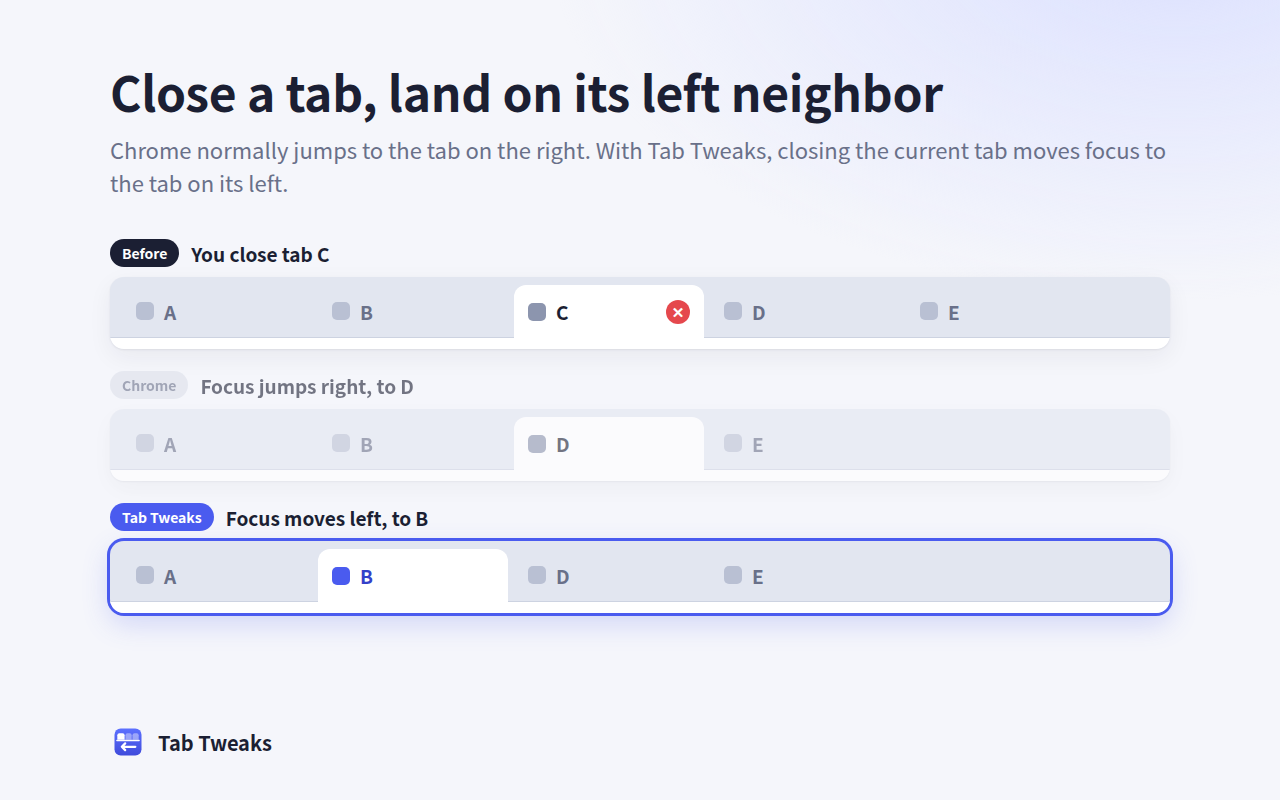
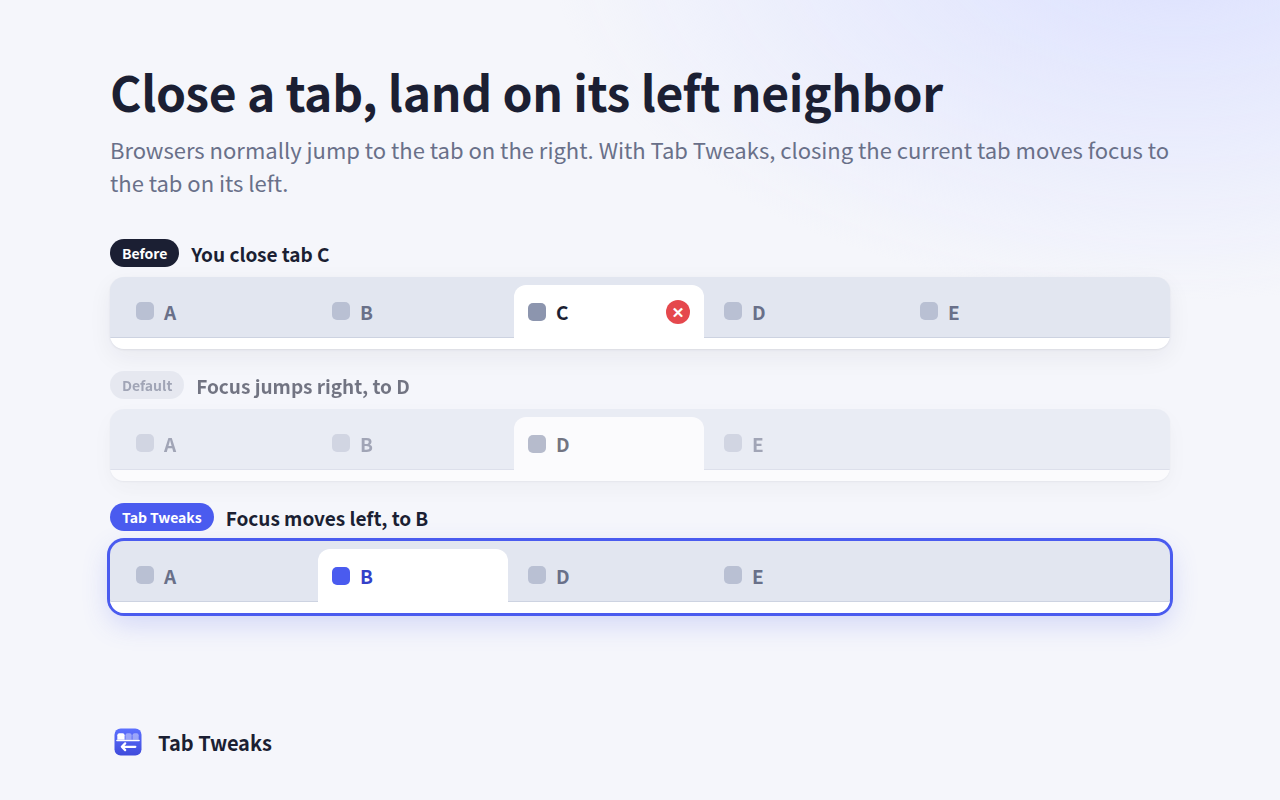
docs(store): use browser-neutral wording in screenshots and listing
The same screenshots and description go to both the Chrome Web Store and
Edge Add-ons, so call the baseline "Default" instead of "Chrome" and drop
the browser names from the description's opening line.

Changed region(s): [[0.0938, 0.1562, 0.9062, 0.2188], [0.0938, 0.4688, 0.3438, 0.5]]

diff --git a/store/src/screenshot.html b/store/src/screenshot.html
@@ -81,19 +81,19 @@
     1: {
       en: {
         title: 'Close a tab, land on its left neighbor',
-        sub: 'Chrome normally jumps to the tab on the right. With Tab Tweaks, closing the current tab moves focus to the tab on its left.',
+        sub: 'Browsers normally jump to the tab on the right. With Tab Tweaks, closing the current tab moves focus to the tab on its left.',
         rows: [
           ['before', 'Before', 'You close tab C'],
-          ['native', 'Chrome', 'Focus jumps right, to D'],
+          ['native', 'Default', 'Focus jumps right, to D'],
           ['ours', 'Tab Tweaks', 'Focus moves left, to B'],
         ],
       },
       zh: {
         title: '关闭标签页，焦点回到左边',
-        sub: 'Chrome 默认会跳到右边的标签；装上 Tab Tweaks 后，关闭当前标签页，焦点会落到它左边的标签上。',
+        sub: '浏览器默认会跳到右边的标签；装上 Tab Tweaks 后，关闭当前标签页，焦点会落到它左边的标签上。',
         rows: [
           ['before', '关闭前', '关闭当前标签 C'],
-          ['native', 'Chrome 默认', '焦点跳到右边的 D'],
+          ['native', '默认', '焦点跳到右边的 D'],
           ['ours', 'Tab Tweaks', '焦点回到左边的 B'],
         ],
       },
@@ -106,7 +106,7 @@
         sub: 'Middle-click or Ctrl/⌘-click several links: the newest tab sits closest to the page instead of being queued at the far end.',
         rows: [
           ['before', 'Before', 'On tab C, open links M, L, N, O, P in that order'],
-          ['native', 'Chrome', 'Queued after C: the newest ends up farthest away'],
+          ['native', 'Default', 'Queued after C: the newest ends up farthest away'],
           ['ours', 'Tab Tweaks', 'Stacked next to C: the newest is closest'],
         ],
       },
@@ -115,7 +115,7 @@
         sub: '中键或 Ctrl/⌘ 点击多个链接：最新打开的标签离来源页面最近，不再一个个排到最后。',
         rows: [
           ['before', '打开前', '在标签 C 上依次打开链接 M、L、N、O、P'],
-          ['native', 'Chrome 默认', '依次排在 C 后面，最新的离 C 最远'],
+          ['native', '默认', '依次排在 C 后面，最新的离 C 最远'],
           ['ours', 'Tab Tweaks', '紧挨 C 叠放，最新的离 C 最近'],
         ],
       },
